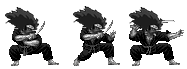
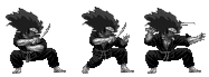
Bugs

diff --git a/src/mainScene.js b/src/mainScene.js
@@ -89,11 +89,11 @@ export class MainScene extends Phaser.Scene {
         this.load.spritesheet('Azazelidle', './assets/img/azazelimages/Idle.png', { frameWidth: 150, frameHeight: 150 });
         this.load.spritesheet('Azazelwalk', './assets/img/azazelimages/Move.png', { frameWidth: 150, frameHeight: 150 });
         this.load.spritesheet('AzazelBall', './assets/img/azazelimages/AzazelBall.png', { frameWidth: 498, frameHeight: 498 });
-        this.load.spritesheet('Shinjiidle', './assets/img/shinjiimages/Idle.png', { frameWidth: 59, frameHeight: 85 });
+        this.load.spritesheet('Shinjiidle', './assets/img/shinjiimages/Idle.png', { frameWidth: 59, frameHeight: 77 });
         this.load.spritesheet('Shinjiwalk', './assets/img/shinjiimages/rungood.png', { frameWidth: 44, frameHeight: 85 });
         this.load.spritesheet('Shinjijump', './assets/img/shinjiimages/Jump.png', { frameWidth: 61, frameHeight: 77 });
-        this.load.spritesheet('Shinjistrongattack', './assets/img/shinjiimages/Strong.png', { frameWidth: 63, frameHeight: 87 });
-        this.load.spritesheet('Shinjinormalattack', './assets/img/shinjiimages/Normal.png', { frameWidth: 62, frameHeight: 69 });
+        this.load.spritesheet('Shinjistrongattack', './assets/img/shinjiimages/Strong.png', { frameWidth: 63, frameHeight: 77 });
+        this.load.spritesheet('Shinjinormalattack', './assets/img/shinjiimages/Normal.png', { frameWidth: 64, frameHeight: 69});
         this.load.spritesheet('ShinjiUlti', './assets/img/shinjiimages/ulti.png', { frameWidth: 69, frameHeight: 70 });
         switch (this.Mapinfo) {
             case 0:

diff --git a/src/characters/Shinji.js b/src/characters/Shinji.js
@@ -89,6 +89,7 @@ export default class Shinji extends Personaje {
     }
     preUpdate(t, dt) {
         super.preUpdate(t, dt);
+        console.log(this.anims.currentAnim);
         if (this.ulti <= this.maxulti) {
             if (this.x > this.playerOpuesto.x) {
                 if ((this.x - this.playerOpuesto.x) >= this.distance) {
